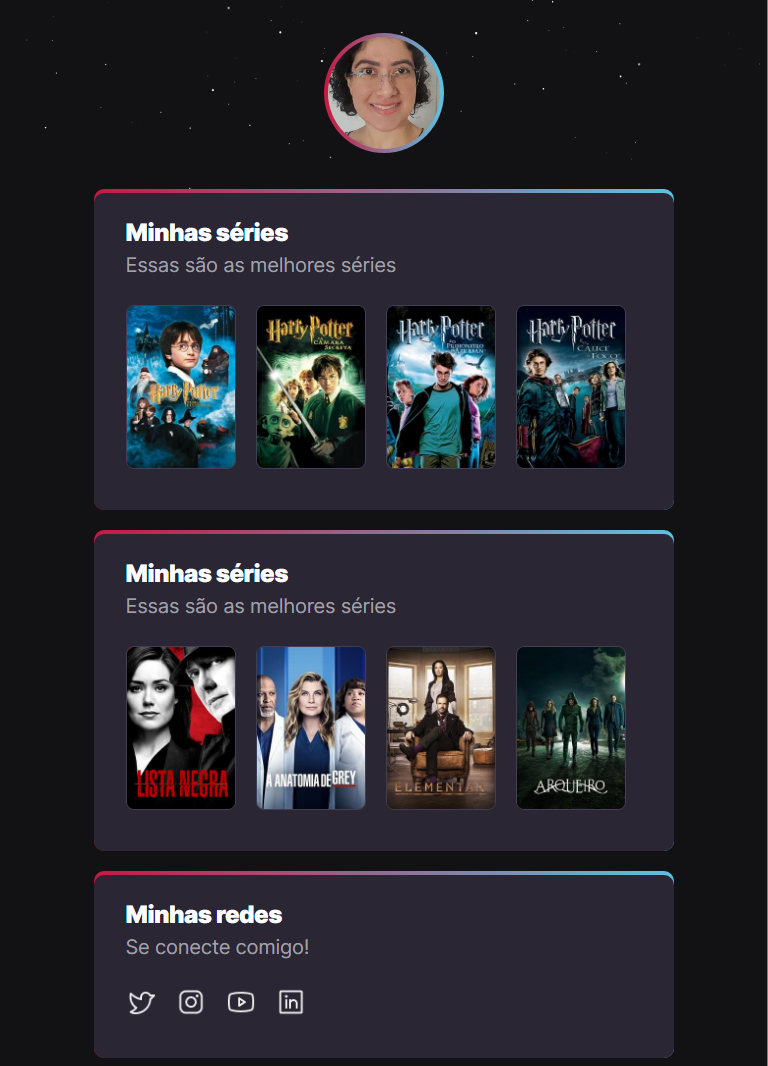
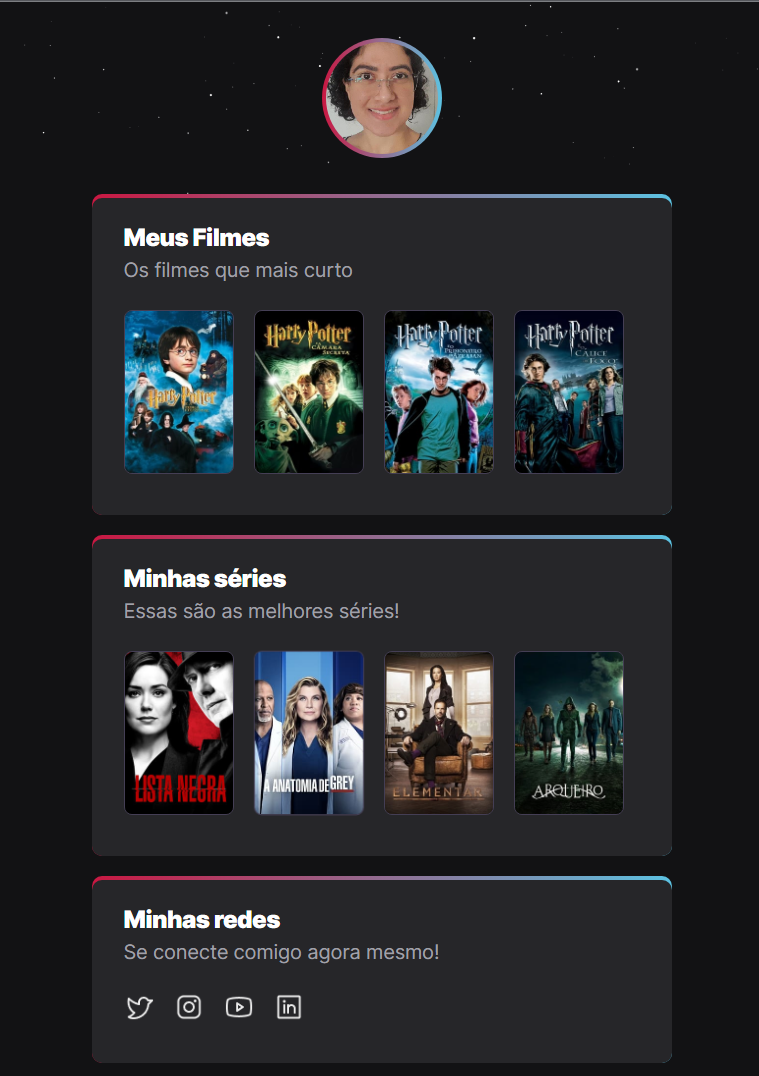
Ajustando subtitulos

diff --git a/index.html b/index.html
@@ -23,8 +23,8 @@
     <main class="conteudo">
         <section class="borda-gradiente borda-gradiente--series">
             <div class="filmes">
-                <h2 class="titulo">Minhas séries</h2>
-                <p class="sub-titulo">Essas são as melhores séries</p>
+                <h2 class="titulo">Meus Filmes</h2>
+                <p class="sub-titulo">Os filmes que mais curto</p>
                 <ul class="filmes__lista">
                     <li class="filmes__item">
                         <a href="https://www.themoviedb.org/movie/671" target="_blank">
@@ -52,7 +52,7 @@
         <section class="borda-gradiente borda-gradiente--streamers">
             <div class="series"> 
                 <h2 class="titulo">Minhas séries</h2>
-                <p class="sub-titulo">Essas são as melhores séries</p>
+                <p class="sub-titulo">Essas são as melhores séries!</p>
                 <ul class="series__lista">
                     <li class="series__item">
                     <a href="https://www.themoviedb.org/tv/46952" target="_blank">
@@ -80,7 +80,7 @@
         <section class="borda-gradiente borda-gradiente--redes">
             <div class="redes">
                 <h2 class="titulo">Minhas redes</h2>
-                <p class="sub-titulo">Se conecte comigo!</p>
+                <p class="sub-titulo">Se conecte comigo agora mesmo!</p>
                 <ul class="redes__lista">
                     <li class="redes__item">
                         <a href="https://www.Twitter.com/" target="_blank">
